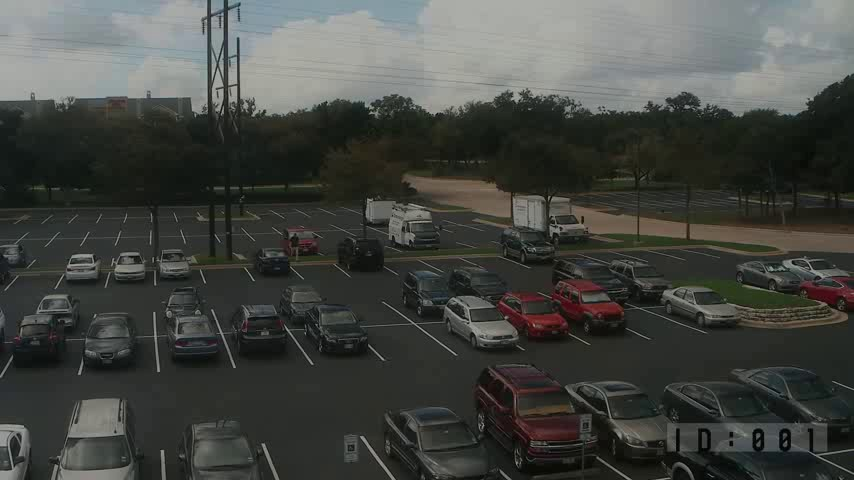
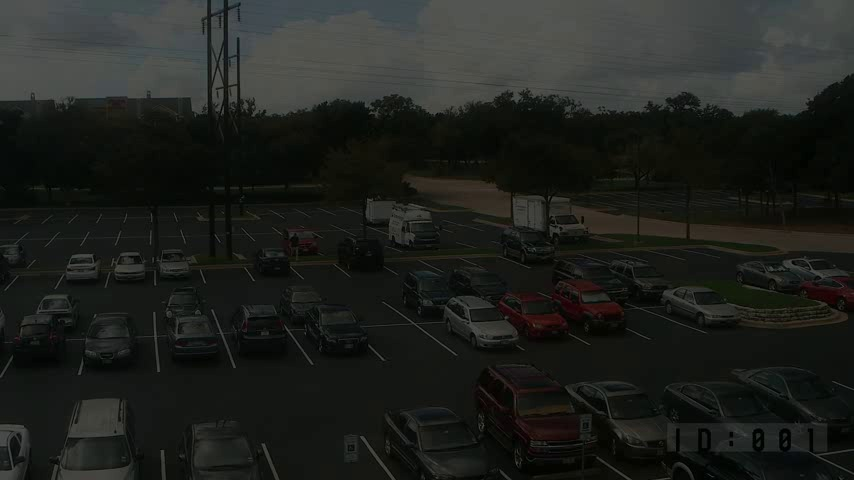
add results

diff --git a/noname.py b/noname.py
@@ -28,7 +28,7 @@ def extract_frames(video_path, output_dir, frame_numbers):
     cap.release()
     print("Frame extraction completed")
 
-video_path = 'videos/dark_condition.avi'
+video_path = 'videos/darker.mp4'
 output_dir = 'frames'
 frame_numbers = [0, 50, 100, 150, 200]
 
